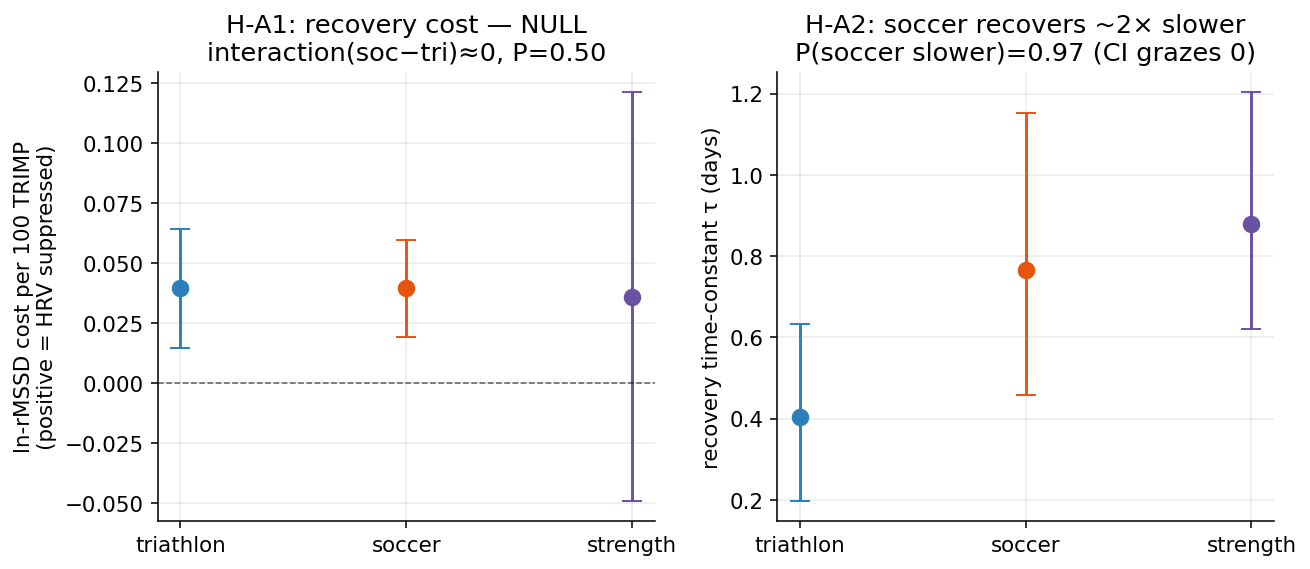
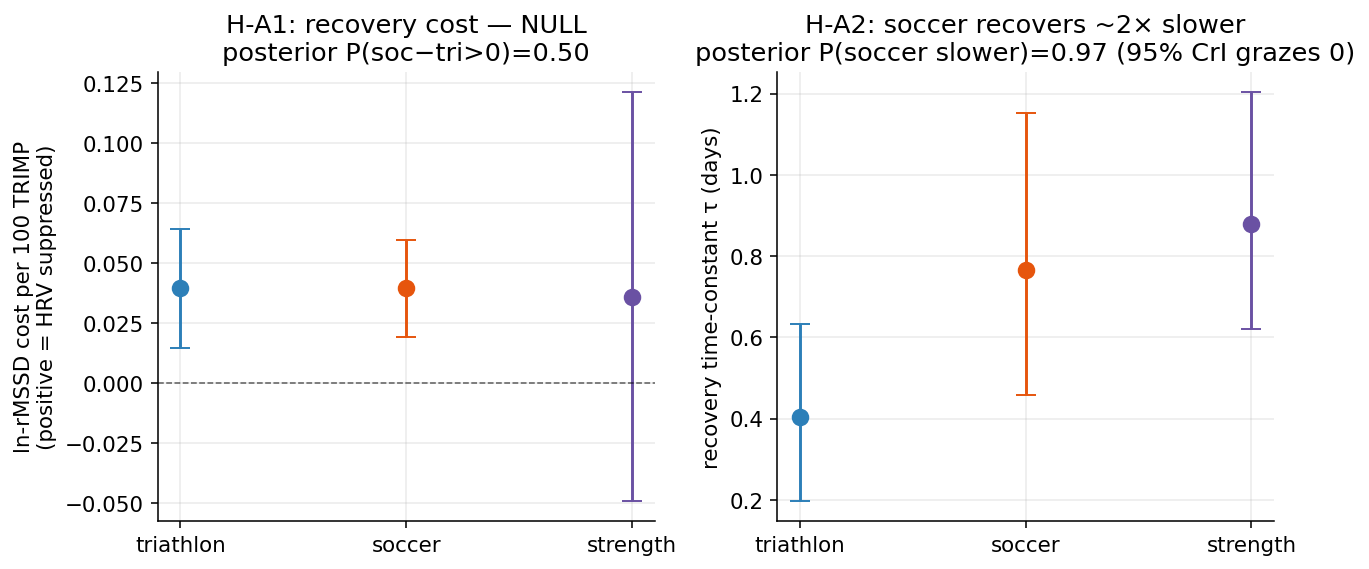
docs+polish: admissions-facing repo pass (LICENSE, CI, posterior notation, README)
Acted on a 4-lens "admissions reviewer" review of the public repo:

- add LICENSE (MIT) and a GitHub Actions CI workflow (ruff + 134 pytest on synthetic data),
  with a tests badge in the README
- README: add a "What this demonstrates (methods)" competency block + a "Start here" runnable
  pointer (examples/demo_cv_leakage.py) + author/contact; reorder the TL;DR to lead with the
  plain finding; figure captions; reference examples/ in the layout
- fix Bayesian posteriors written in p-value notation ("P=0.50" -> "posterior P(...)") in the
  README and regenerate a_layer.png; "CI" -> "CrI" in the figure
- report the pre-registered NEGATIVE CONTROL (sleep shows no sport x TRIMP interaction,
  CrI (-0.35,+0.16)); log the §9 sensitivity-suite status as prereg A11
- reconcile D-layer artifact percentages between README prose and the figure (2.6%/1.8%, +n)
- rename the D-layer header away from "validation"; drop the device-agreement framing
- consolidate the embargo-from-residual-ACF logic into models.prediction (single source of
  truth used by both the report and the figures); add a test
- prereg: honest Status/Date header (not OSF-frozen; A-layer exploratory per A3), ~2.5y data
  window, A6 ESS cross-ref to A8, A5/A6 ordering note, ESS-demo path
- pyproject: ~2.5y description, dependency lower-bounds, a `figures` extra (matplotlib)
- fix the Chinese overview's D-row to match the A9 self-consistency framing

diff --git a/scripts/prediction_report.py b/scripts/prediction_report.py
@@ -20,31 +20,13 @@ from __future__ import annotations
 
 import argparse
 
-import numpy as np
-
-from garmin_nof1.models._common import deviation
-from garmin_nof1.models.prediction import evaluate_prediction, holdout_skill, holdout_split
+from garmin_nof1.models.prediction import (
+    embargo_from_residual_acf,
+    evaluate_prediction,
+    holdout_skill,
+    holdout_split,
+)
 from garmin_nof1.pipeline.build_panel import build_daily_panel
-
-
-def _embargo_from_residual_acf(dev_df, *, detrend_window=28, max_embargo=14) -> int:
-    """First lag where the AR(1)-residual autocorrelation falls inside the ~95% white-noise
-    band (|rho| < 2/sqrt(n)); the serial-correlation cooldown to embargo. Floored at 1."""
-    dev = deviation(dev_df, "ln_rmssd", None, detrend_window).to_numpy()
-    dev = dev[np.isfinite(dev)]
-    # AR(1) residual: regress dev[t] on dev[t-1]
-    x, y = dev[:-1], dev[1:]
-    phi = float(np.dot(x - x.mean(), y - y.mean()) / np.dot(x - x.mean(), x - x.mean()))
-    resid = y - (y.mean() + phi * (x - x.mean()))
-    n = resid.size
-    band = 2.0 / np.sqrt(n)
-    rc = resid - resid.mean()
-    var = float(np.dot(rc, rc))
-    for k in range(1, min(max_embargo, n - 1) + 1):
-        ac = float(np.dot(rc[:-k], rc[k:]) / var)
-        if abs(ac) < band:
-            return max(1, k)
-    return max_embargo
 
 
 def main() -> None:
@@ -56,7 +38,7 @@ def main() -> None:
 
     panel = build_daily_panel(args.raw_dir, hr_rest=args.hr_rest, hr_max=args.hr_max)
     dev, hold = holdout_split(panel, frac=0.2)
-    embargo = _embargo_from_residual_acf(dev)
+    embargo = embargo_from_residual_acf(dev)
 
     print("=" * 70)
     print("H-P1 预测层报告(只输出 RMSE/技能数值,不含具体生理读数)")

diff --git a/src/garmin_nof1/models/prediction.py b/src/garmin_nof1/models/prediction.py
@@ -57,6 +57,32 @@ def holdout_split(df: pd.DataFrame, *, frac: float = 0.2) -> tuple[pd.DataFrame,
     return df.iloc[: len(df) - n_hold].copy(), df.iloc[len(df) - n_hold :].copy()
 
 
+def embargo_from_residual_acf(
+    df: pd.DataFrame, *, outcome: str = "ln_rmssd", detrend_window: int = 28, max_embargo: int = 14
+) -> int:
+    """Embargo (days) sized from the AR(1)-residual autocorrelation of the detrended outcome.
+
+    Detrends ``outcome`` (centered rolling mean), fits a lag-1 AR, and returns the first lag at
+    which the residual autocorrelation falls inside the ~95% white-noise band
+    (``|rho| < 2/sqrt(n)``), floored at 1 — the serial-correlation cooldown a leakage-safe split
+    should embargo. This is the pre-registered way to size the embargo (OSF §5), used by both the
+    report and the figures so they can't drift apart.
+    """
+    dev = deviation(df, outcome, None, detrend_window).to_numpy()
+    dev = dev[np.isfinite(dev)]
+    x, y = dev[:-1], dev[1:]
+    phi = float(np.dot(x - x.mean(), y - y.mean()) / np.dot(x - x.mean(), x - x.mean()))
+    rc = (y - (y.mean() + phi * (x - x.mean())))
+    rc = rc - rc.mean()
+    var = float(np.dot(rc, rc))
+    n = rc.size
+    band = 2.0 / np.sqrt(n)
+    for k in range(1, min(max_embargo, n - 1) + 1):
+        if abs(float(np.dot(rc[:-k], rc[k:]) / var)) < band:
+            return max(1, k)
+    return max_embargo
+
+
 def build_supervised(df: pd.DataFrame, *, outcome: str = "ln_rmssd") -> pd.DataFrame:
     """Build the one-step-ahead supervised table from a contiguous daily panel.
 

diff --git a/scripts/make_figures.py b/scripts/make_figures.py
@@ -24,7 +24,12 @@ import numpy as np
 from garmin_nof1.eval.cv import combinatorial_purged_splits
 from garmin_nof1.models import fit_recovery_cost, fit_recovery_tau
 from garmin_nof1.models._common import deviation
-from garmin_nof1.models.prediction import _fold_rmse, build_supervised, holdout_split
+from garmin_nof1.models.prediction import (
+    _fold_rmse,
+    build_supervised,
+    embargo_from_residual_acf,
+    holdout_split,
+)
 from garmin_nof1.pipeline.build_panel import build_daily_panel
 from garmin_nof1.pipeline.parse_rr import reconstruct_rr_ms, rr_quality
 
@@ -61,7 +66,7 @@ def fig_a_layer(panel):
     axc.set_ylabel("ln-rMSSD cost per 100 TRIMP\n(positive = HRV suppressed)")
     axc.set_title(
         f"H-A1: recovery cost — NULL\n"
-        f"interaction(soc−tri)≈0, P={cost.prob_interaction_positive:.2f}"
+        f"posterior P(soc−tri>0)={cost.prob_interaction_positive:.2f}"
     )
 
     for i, s in enumerate(sports):
@@ -73,7 +78,7 @@ def fig_a_layer(panel):
     axt.set_ylabel("recovery time-constant τ (days)")
     axt.set_title(
         f"H-A2: soccer recovers ~2× slower\n"
-        f"P(soccer slower)={tau.prob_tau_soccer_longer:.2f} (CI grazes 0)"
+        f"posterior P(soccer slower)={tau.prob_tau_soccer_longer:.2f} (95% CrI grazes 0)"
     )
     _save(fig, "a_layer.png")
 
@@ -152,7 +157,10 @@ def fig_prediction(panel):
     dev_df, _ = holdout_split(panel, frac=0.2)
     sup = build_supervised(dev_df)
     load_cols = [c for c in sup.columns if c.startswith("load_")]
-    splits = combinatorial_purged_splits(len(sup), n_groups=6, n_test_groups=2, embargo=1, purge=1)
+    embargo = embargo_from_residual_acf(dev_df)  # pre-registered embargo, same as the report
+    splits = combinatorial_purged_splits(
+        len(sup), n_groups=6, n_test_groups=2, embargo=embargo, purge=1
+    )
     rmse = {"random_walk": [], "ar1": [], "candidate": []}
     imp = []
     for tr, te in splits:

diff --git a/tests/test_prediction.py b/tests/test_prediction.py
@@ -12,6 +12,7 @@ import pandas as pd
 from garmin_nof1.models.prediction import (
     PredictionResult,
     build_supervised,
+    embargo_from_residual_acf,
     evaluate_prediction,
     holdout_skill,
     holdout_split,
@@ -85,6 +86,13 @@ def test_ar1_beats_random_walk_on_mean_reverting_series():
     res = evaluate_prediction(df, n_groups=6, n_test_groups=2, embargo=2)
     # mean-reverting (phi=0.3) -> fitted AR(1) predicts better than persistence
     assert res.rmse["ar1"] < res.rmse["random_walk"]
+
+
+def test_embargo_from_residual_acf_is_small_for_fast_decorrelation():
+    # weak AR(1) (phi=0.3) -> the residual decorrelates within a day or two -> small embargo
+    df = _panel(600, planted_next_day_effect=False, seed=12)
+    e = embargo_from_residual_acf(df)
+    assert isinstance(e, int) and 1 <= e <= 4
 
 
 def test_holdout_split_is_the_temporal_tail():

diff --git a/src/garmin_nof1/models/__init__.py b/src/garmin_nof1/models/__init__.py
@@ -7,6 +7,7 @@ beat an AR(1)/random-walk baseline unless real next-day skill exists."""
 from garmin_nof1.models.prediction import (
     PredictionResult,
     build_supervised,
+    embargo_from_residual_acf,
     evaluate_prediction,
     holdout_split,
 )
@@ -18,6 +19,7 @@ __all__ = [
     "RecoveryCostFit",
     "RecoveryTauFit",
     "build_supervised",
+    "embargo_from_residual_acf",
     "evaluate_prediction",
     "fit_recovery_cost",
     "fit_recovery_tau",

diff --git a/README.md b/README.md
@@ -1,9 +1,18 @@
 # Garmin dual-sport N-of-1
 
+[![tests](https://github.com/EwanWu06/garmin-nof1/actions/workflows/tests.yml/badge.svg)](https://github.com/EwanWu06/garmin-nof1/actions/workflows/tests.yml)
+· MIT licensed · 134 tests on synthetic ground truth (no private data needed)
+
 A single-subject (N-of-1) study of **cross-sport recovery** built from ~2.5 years of one
 athlete's Garmin (Forerunner 955) data spanning two physiologically opposite sports —
 **endurance triathlon** and **intermittent-sprint soccer** — with **strength training** as a
 third modeled load.
+
+**What this demonstrates (methods):** leakage-safe time-series cross-validation (purged
+walk-forward + CPCV, with a leakage-injection test) · within-person Bayesian inference
+(closed-form posteriors, ROPE, credible intervals) · pre-registration with an append-only
+amendment log · an adversarial multi-agent self-audit that found and fixed a real bug ·
+a reproducible, tested toolchain (134 tests, runs with no private data).
 
 The point of this project is *not* "I discovered X." It is: **use quantitative methods to
 honestly characterize one complex individual system, and state clearly where the conclusions
@@ -11,15 +20,17 @@ stop.** Rigor, honest boundaries, a pre-registered analysis with an append-only 
 and a validated, reproducible toolchain are the deliverables. Two of the three headline tests
 land on a **null** — and that is reported as the finding, not hidden.
 
-> **TL;DR of the science.** On this person: (D) the RR→HRV reconstruction is verified
-> self-consistent with the firmware and the strap signal's quality is audited (motion artifact
-> inflates raw RMSSD ~3× in field sport); (A) soccer does **not** cost more next-day vagal HRV
-> *per unit of training load* than triathlon (**null**), but its recovery time-constant is ~2×
-> longer (strong, not decisive at the 95% bar); (P) cross-sport load adds **no** robust next-day
-> HRV prediction over an AR(1) baseline (**null**, as pre-registered).
->
-> The published numbers survived an adversarial multi-agent correctness audit (one real bug —
-> TRIMP double-counting from overlapping archives — found and fixed; details in prereg A7–A10).
+> **Start here:** `python examples/demo_cv_leakage.py` — a 30-second runnable proof that the
+> leakage-safe CV blocks the optimism ordinary k-fold injects. Plain-language overview (中文):
+> [docs/项目简介.md](docs/项目简介.md).
+
+> **TL;DR.** On this one athlete: soccer and triathlon tax next-day recovery *equally per unit
+> of training load* (**null**), but soccer takes **~2× longer to recover from** (strong, not
+> decisive at the 95% bar); and knowing today's training adds **no** useful prediction of
+> tomorrow's recovery (**null**, as pre-registered). A measurement layer audits the signal
+> quality behind those claims (motion artifact inflates raw activity RMSSD ~3×). **Two of three
+> headline tests are nulls — reported, not hidden** — and the numbers survived an adversarial
+> multi-agent self-audit that found and fixed a real bug (prereg A7–A10).
 
 ## The three layers
 
@@ -32,35 +43,41 @@ land on a **null** — and that is reported as the finding, not hidden.
 
 ## Results
 
-### D — Measurement validation (chest-strap window, 22 RR-bearing sessions)
+### D — Measurement: RR reconstruction self-consistency + RR quality audit (chest-strap window, 22 RR-bearing sessions)
 - **RR parsing is self-consistent.** Our `60000/mean(RR)` vs Garmin's firmware `avg_heart_rate`
   agree to ~1 bpm (bias −1.2, ICC 0.99, MAPE 0.93%) — but both come from the *same* chest-strap
   beat stream, so this is a parse/concatenation **self-consistency check** (it catches gross
   parser bugs), **not** independent device agreement. We don't claim it as a sensor validation.
 - **Quality audit (the substantive D-layer result).** Artifact correction removes **~19 ms** of
   motion-inflated RMSSD (raw ~3× the corrected value); soccer
-  (2.7% artifact beats) is noisier than running (1.9%) — field sport HRV needs aggressive
-  cleaning, which is *why* the study uses Garmin's clean overnight HRV for the daily panel.
+  (2.6% artifact beats, n=17) is noisier than running (1.8%, n=5) — field sport HRV needs
+  aggressive cleaning, which is *why* the study uses Garmin's clean overnight HRV for the panel.
 - **Honest scope.** When a chest strap is paired the watch logs it as the *sole* HR source,
   so the FITs carry **no independent wrist-optical series** — a simultaneous wrist-vs-chest
   *device* comparison is not supported and is **not claimed** (demoted; see prereg A5).
 
 ![D-layer RR quality: raw vs artifact-corrected RMSSD by sport](docs/figures/d_layer_quality.png)
+*Raw activity RMSSD runs ~3× the artifact-corrected value; field sport (soccer) is noisier than steady-state (running). The substantive D-layer finding — why the daily panel uses clean overnight HRV.*
 
 ### A — Differential recovery (904-day panel; triathlon 114 / soccer 48 / strength 90)
 - **H-A1 (cost): null.** Next-night ln-RMSSD cost per 100 TRIMP is ~0.04 for all three sports —
   triathlon and soccer essentially identical — so the soccer−triathlon interaction is ≈0
-  (P 0.50). Per unit of *HR-based* load, the sports tax vagal recovery equally. (Caveat: TRIMP
-  underestimates soccer's intermittent sprint load, so "equal per TRIMP" ≠ "equal per session.")
+  (posterior P(interaction>0)≈0.50, a coin-flip → no directional effect). Per unit of *HR-based*
+  load, the sports tax vagal recovery equally. (Caveat: TRIMP underestimates soccer's
+  intermittent sprint load, so "equal per TRIMP" ≠ "equal per session.")
 - **H-A2 (recovery speed): suggestive.** Recovery time-constant τ: **triathlon 0.40 d,
   soccer 0.77 d, strength 0.88 d**. Soccer recovers ~2× slower than triathlon
-  (P(soccer slower) ≈ 0.97), but the 95% credible interval grazes 0 — **not decisive** at the
-  pre-registered threshold; soccer's 48 sessions are the power bottleneck.
+  (posterior P(soccer slower)≈0.97), but the 95% credible interval grazes 0 — **not decisive**
+  at the pre-registered threshold; soccer's 48 sessions are the power bottleneck.
 - **Strength matters.** Modeling strength as its own load (not folding it into "rest") both
   keeps the headline contrast clean and shows strength carries the longest recovery cost — a
   signal that would vanish if it were lumped into the baseline.
+- **Negative control passes.** The pre-registered negative control (OSF §4) — sleep duration as
+  the outcome — shows **no** sport×TRIMP interaction (95% CrI (−0.35, +0.16) straddles 0),
+  i.e. a generic "hard day" effect is not masquerading as a sport-specific recovery cost.
 
 ![A-layer: H-A1 recovery cost (null) and H-A2 recovery τ by sport, with 95% intervals](docs/figures/a_layer.png)
+*H-A1: per-100-TRIMP cost is the same across sports (posterior P(interaction>0)≈0.50, null). H-A2: recovery τ is ~2× longer for soccer (posterior P(soccer slower)≈0.97), 95% credible interval grazes 0. Bars = 95% credible intervals.*
 
 ### P — Prediction (demoted falsification)
 - Predicting next-day ln-RMSSD: random-walk RMSE 0.168, **AR(1) 0.140** (persistence is
@@ -70,6 +87,7 @@ land on a **null** — and that is reported as the finding, not hidden.
   reported alongside the result.
 
 ![H-P1 prediction: RMSE by model and the CPCV skill-improvement distribution](docs/figures/prediction.png)
+*AR(1) clearly beats random-walk; adding cross-sport load barely moves RMSE. The CPCV skill-improvement distribution straddles 0 (5th percentile < 0) → H-P1 null.*
 
 ## A methodological highlight: HRV timestamp alignment
 
@@ -83,6 +101,7 @@ affects (`load_lag=1`) flips the costs to the physiological sign and matches the
 and it is logged transparently in the pre-registration (amendment A1).
 
 ![Same-night vs next-night HRV deviation by sport — the timestamp-alignment confound](docs/figures/alignment.png)
+*Training days read HIGH the same night (you train when you wake up recovered — reverse causation) but LOW the next night (the real recovery cost). Aligning load to the next night fixes it.*
 
 ## Honest constraints (these shape everything)
 
@@ -142,8 +161,10 @@ scripts/
   dlayer_report.py       # D-layer reconstruction validation + RR quality audit
   prediction_report.py   # H-P1 holdout-safe skill report
   make_figures.py        # regenerate the README figures (privacy-safe aggregates)
+examples/
+  demo_cv_leakage.py     # runnable proof: leakage optimism + ESS << nominal day count
 docs/figures/            # committed README figures (aggregate effect estimates only)
-tests/                   # pytest, 133 tests — incl. leakage-injection + estimator recovery
+tests/                   # pytest, 134 tests — incl. leakage-injection + estimator recovery
 data/                    # gitignored: raw FIT/JSON archive + derived panel (never committed)
 preregistration/         # OSF pre-registration + append-only amendment log
 ```
@@ -154,7 +175,7 @@ preregistration/         # OSF pre-registration + append-only amendment log
 mamba env create -f environment.yml     # or: conda env create -f environment.yml
 conda activate garmin-nof1
 pip install -e .
-pytest                                  # 133 tests, all on synthetic data — no private data needed
+pytest                                  # 134 tests, all on synthetic data — no private data needed
 ```
 
 Everything that gates a conclusion (the leakage-safe CV, the estimators, the agreement stats)
@@ -190,6 +211,12 @@ prereg A4.
 ## Status
 
 **Complete.** All three layers are built, validated on synthetic ground truth, and run on the
-real combined panel; 133 tests pass. The scientific story is two honest nulls (H-A1, H-P1), one
-strong-but-not-decisive effect (H-A2: soccer recovers slower), and a clean measurement
-validation (D) — with every analytical decision logged in the pre-registration.
+real combined panel; 134 tests pass. The scientific story is two honest nulls (H-A1, H-P1), one
+strong-but-not-decisive effect (H-A2: soccer recovers slower), and a measurement-pipeline
+self-consistency check + RR quality audit (D) — with every analytical decision logged in the
+pre-registration.
+
+## Author
+
+Ewan Wu — [github.com/EwanWu06](https://github.com/EwanWu06) · [email redacted]
+A single-subject portfolio project for biostatistics / computational-biology graduate applications.

diff --git a/preregistration/OSF_preregistration.md b/preregistration/OSF_preregistration.md
@@ -1,8 +1,8 @@
 # Pre-registration — A single-subject (N-of-1) study of cross-sport recovery
 
 **Author:** Ewan Wu
-**Date:** _(to be timestamped on OSF before any outcome-relationship modeling)_
-**Status:** Draft. Will be frozen at a named git commit and submitted to OSF **before** the sport×load → HRV relationship is estimated on real data.
+**Date:** Plan written before real-data modeling; never OSF-timestamped (see Status).
+**Status:** §1–§12 are the analysis plan as written; §13 is the honest, **append-only** record of what actually happened. The plan was **not** OSF-frozen before fitting — the A-layer was fit exploratorily on the full real panel (fully disclosed in §13/A3), while the prediction layer (H-P1) kept its holdout discipline. Treat this as a *pre-registration-style analysis plan on pre-existing data* (§1), not a prospectively frozen registration. §12's "freeze at a named commit on submission" describes the original intent, superseded by §13/A3.
 
 ---
 
@@ -11,8 +11,8 @@
 This is an **observational, non-randomized, single-subject (N-of-1)** study using one
 person's own wearable data. It is **not** a randomized N-of-1 trial.
 
-**The data already exist** (~2 years of the author's Garmin Forerunner 955 records; ~3
-months of chest-strap beat-to-beat RR). This is therefore a pre-registration of an
+**The data already exist** (~2.5 years / 904 days of the author's Garmin Forerunner 955
+records; ~3 months of chest-strap beat-to-beat RR). This is therefore a pre-registration of an
 *analysis plan on pre-existing data*, which provides weaker inferential protection than
 prospective registration. We mitigate this honestly rather than hide it:
 
@@ -46,7 +46,8 @@ predict beyond an autoregressive baseline; we treat that as the honest prior.
 
 - **Primary outcome** — nightly `ln(RMSSD)` from Garmin HRV Status. Modeled in **deviation
   form**: residual after subtracting a centered 28-day rolling baseline (detrending is
-  mandatory; the raw series is trend-dominated — see the ESS demo).
+  mandatory; the raw series is trend-dominated — see the ESS demo in
+  `examples/demo_cv_leakage.py`).
 - **Exposure** — per-session `TRIMP` (primary variant pre-declared: HR-based Banister TRIMP;
   robustness across Edwards and Garmin training-load variants). **Sport label** ∈
   {`triathlon` (endurance: swim/bike/run), `soccer` (intermittent), `rest`}.
@@ -196,10 +197,15 @@ the maximum observed activity HR (corroborated by several near-maximal soccer se
 than a single spike). The specific values live in the local analysis config and are not
 committed (personal-data policy); the derivation rule above makes them reproducible.
 
+*(A5 and A6 are both dated 2026-06-22; A6 appears above A5 below because its ID was assigned
+first during the working session. Append-only means content is never rewritten — not that the
+display order is frozen.)*
+
 **A6 — Prediction layer (H-P1): candidate simplified to an OLS linear model (2026-06-22).**
 §5 listed the candidate predictor as "state-space/Kalman + gradient-boosting (lagged
-features)". With an effective sample size of only ≈130 independent days (reported next to the
-result), a high-variance learner would overfit; the hypothesis is specifically whether
+features)". With an effective sample size of only ≈130 independent days (later corrected by A8
+to ≈324 on the detrended residual — still modest; OLS remains the right call), a high-variance
+learner would overfit; the hypothesis is specifically whether
 *cross-sport load* adds next-day skill, so the candidate is an OLS linear model = the AR(1)
 baseline **plus** today's per-sport TRIMP loads. Baselines (random-walk, AR(1)), the
 leakage-safe CPCV evaluation, the embargo (sized from the AR(1)-residual ACF), the 20%
@@ -278,3 +284,18 @@ contributing session (nonzero load column), matching the docstring under `load_l
 initial-positive-*sequence*). (v) Documented the known mixed-sport-day limitation: the panel
 stores one label + whole-day TRIMP, so on ~3% of active days a co-occurring sport's load is
 attributed to the dominant sport. None of these change a scientific conclusion.
+
+**A11 — Status of the §9 sensitivity suite (2026-06-24).**
+§9 pre-specified a confounder DAG, a negative-control outcome, an E-value, and a tipping-point
+analysis. Their status:
+- **Negative-control outcome — DONE and reported.** With sleep duration as the outcome, the
+  sport×TRIMP interaction is null (posterior interaction ≈ −0.09, 95% CrI (−0.35, +0.16),
+  straddles 0; the estimator supports `outcome="sleep_hours"`). A generic "hard day" effect is
+  therefore not masquerading as a sport-specific recovery cost. Reported in the README A-section.
+- **Confounder enumeration — DONE narratively** (§9 measured-vs-unmeasured list; README "Honest
+  constraints"); a formal drawn DAG is **deferred/optional**.
+- **E-value and tipping-point — deferred/optional** (mirroring A6's "optional robustness runs").
+  Reason: H-A1 and H-P1 are nulls — there is no positive association whose robustness an E-value
+  would stress-test — and H-A2 did not clear the pre-registered 95% threshold, so it is reported
+  as *suggestive, not supported*; computing an E-value for an effect we explicitly decline to
+  call supported would overstate it. They can be added if H-A2 is ever powered past the bar.

diff --git a/docs/项目简介.md b/docs/项目简介.md
@@ -31,7 +31,7 @@
 
 | 层 | 问题 | 结论 |
 |---|---|---|
-| **D 测量** | 数字靠谱吗 | 重建与官方值高度一致(ICC≈0.99);**发现运动中 HRV 被晃动噪声虚高约 3 倍**,足球比跑步更脏 |
+| **D 测量** | 数字靠谱吗 | RR 解析自洽(我们的 60000/mean(RR) 与固件 avg HR 偏差约 1 bpm)——但二者出自**同一条胸带心搏流**,这是解析自洽性检查、**不是独立设备一致性**;**真正的 D 层结论是:运动中 HRV 被晃动噪声虚高约 3 倍**,足球比跑步更脏 |
 | **A · 成本(H-A1)** | 足球更耗吗 | **没差异**:每单位训练量,足球和铁三对恢复的压制几乎一样 |
 | **A · 速度(H-A2)** | 恢复更慢吗 | 恢复时间:铁三≈0.4 天、足球≈0.77 天、力量≈0.88 天。**足球恢复约慢 2 倍(97% 概率),但差一口气未跨过严格门槛**(足球仅 48 次,样本是瓶颈) |
 | **P 预测(H-P1)** | 能预测明天吗 | **预测不了**:加上"今天练了什么"对预测几乎无提升 |